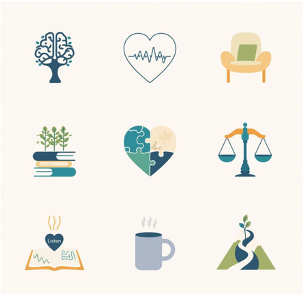
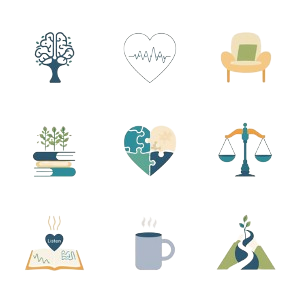
Se agrega estilo de imagenes centradas en cards

diff --git a/src/sass/_cards.scss b/src/sass/_cards.scss
@@ -162,6 +162,9 @@
       rgba($color-ipn-dark, 0.8)
     ),
     url("../assets/1.png");
+  background-size: contain; /* Cambiado de 'cover' a 'contain' */
+  background-position: center;
+  background-repeat: no-repeat;
 }
 
 [im="2"] {
@@ -171,6 +174,9 @@
       rgba($color-ipn-dark, 0.8)
     ),
     url("../assets/2.png");
+  background-size: contain; /* Cambiado de 'cover' a 'contain' */
+  background-position: center;
+  background-repeat: no-repeat;
 }
 [im="3"] {
   background-image: linear-gradient(
@@ -179,6 +185,9 @@
       rgba($color-ipn-dark, 0.8)
     ),
     url("../assets/3.png");
+  background-size: contain; /* Cambiado de 'cover' a 'contain' */
+  background-position: center;
+  background-repeat: no-repeat;
 }
 [im="4"] {
   background-image: linear-gradient(
@@ -187,6 +196,9 @@
       rgba($color-ipn-dark, 0.8)
     ),
     url("../assets/4.png");
+  background-size: contain; /* Cambiado de 'cover' a 'contain' */
+  background-position: center;
+  background-repeat: no-repeat;
 }
 [im="5"] {
   background-image: linear-gradient(
@@ -195,6 +207,9 @@
       rgba($color-ipn-dark, 0.8)
     ),
     url("../assets/5.png");
+  background-size: contain; /* Cambiado de 'cover' a 'contain' */
+  background-position: center;
+  background-repeat: no-repeat;
 }
 [im="6"] {
   background-image: linear-gradient(
@@ -203,6 +218,9 @@
       rgba($color-ipn-dark, 0.8)
     ),
     url("../assets/6.png");
+  background-size: contain; /* Cambiado de 'cover' a 'contain' */
+  background-position: center;
+  background-repeat: no-repeat;
 }
 [im="7"] {
   background-image: linear-gradient(
@@ -211,6 +229,9 @@
       rgba($color-ipn-dark, 0.8)
     ),
     url("../assets/7.png");
+  background-size: contain; /* Cambiado de 'cover' a 'contain' */
+  background-position: center;
+  background-repeat: no-repeat;
 }
 [im="8"] {
   background-image: linear-gradient(
@@ -219,6 +240,9 @@
       rgba($color-ipn-dark, 0.8)
     ),
     url("../assets/8.png");
+  background-size: contain; /* Cambiado de 'cover' a 'contain' */
+  background-position: center;
+  background-repeat: no-repeat;
 }
 [im="9"] {
   background-image: linear-gradient(
@@ -227,6 +251,9 @@
       rgba($color-ipn-dark, 0.8)
     ),
     url("../assets/9.png");
+  background-size: contain; /* Cambiado de 'cover' a 'contain' */
+  background-position: center;
+  background-repeat: no-repeat;
 }
 
 // [im="2"] {

diff --git a/src/sass/_variables.scss b/src/sass/_variables.scss
@@ -1,43 +1,40 @@
- 
- // #region COLORS
+// #region COLORS
 
- 
- $color-red: rgb(216, 33, 33);
- $color-grey: #eee;
+$color-red: rgb(216, 33, 33);
+$color-grey: #eee;
 
- $color-green-ligth: rgb(80, 248, 170);
- $color-green-dark: rgb(19, 139, 3);
+$color-green-ligth: rgb(80, 248, 170);
+$color-green-dark: rgb(19, 139, 3);
 
-  $color-orange-ligth: rgb(252, 196, 75);
- $color-orange-dark: rgb(180, 99, 6);
+$color-orange-ligth: rgb(252, 196, 75);
+$color-orange-dark: rgb(180, 99, 6);
 
- $color-blue-ligth: rgb(80, 230, 250);
- $color-blue-dark: rgb(3, 50, 151);
+$color-blue-ligth: rgb(80, 230, 250);
+$color-blue-dark: rgb(3, 50, 151);
 
-$color-ipn-dark : rgb(184, 7, 175);
-$color-ipn-ligth : rgba(238, 61, 229, 0.322);
+$color-ipn-dark: rgba(184, 7, 175, 0.716);
+$color-ipn-ligth: rgba(238, 61, 229, 0.322);
 
+// #endregion COLORS
 
- // #endregion COLORS
+// #region Grid
 
+$grid-width: 114rem;
+$gutter-vertical: 8rem;
+$gutter-horizontal: 6rem;
 
+// #endregion Grid
 
-  // #region Grid
+//#region Dividers
+.mb-20 {
+  margin-bottom: 2rem;
+}
+.mb-40 {
+  margin-bottom: 2rem;
+}
+.my-20 {
+  margin-top: 2rem;
+  margin-bottom: 2rem;
+}
 
- 
- $grid-width: 114rem;
- $gutter-vertical: 8rem;
- $gutter-horizontal:6rem;
-
-
- // #endregion Grid
-
- //#region Dividers
-.mb-20{margin-bottom: 2rem;}
-.mb-40{margin-bottom: 2rem;}
-.my-20{margin-top: 2rem; margin-bottom: 2rem;}
-
-
-
- //#endregion Dividers
-
+//#endregion Dividers
